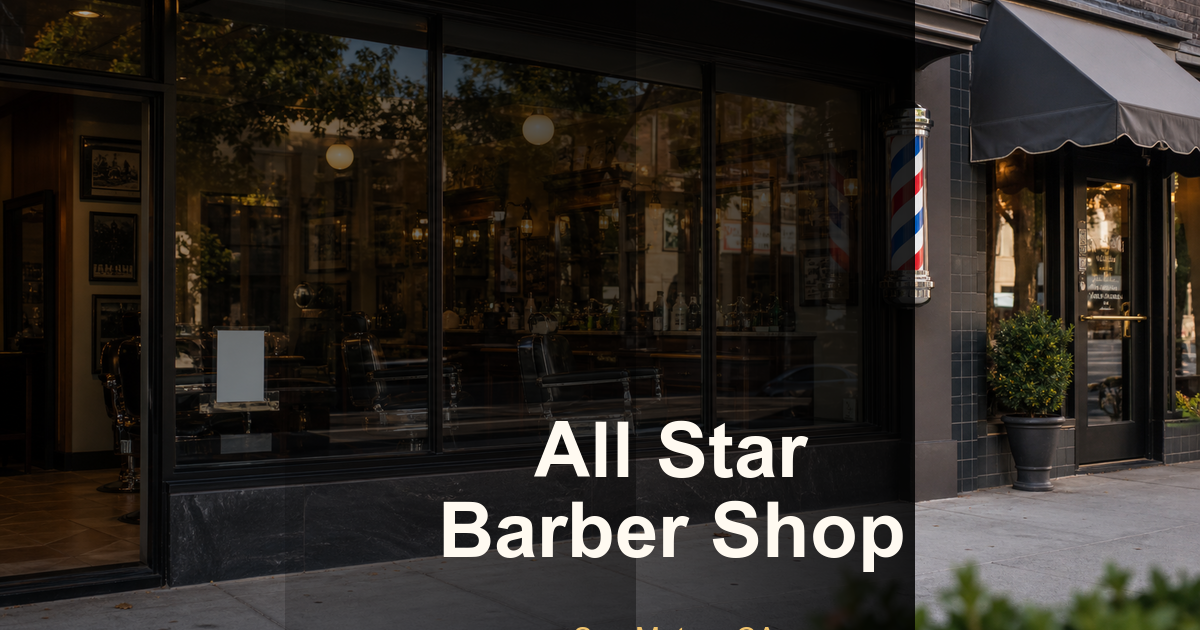
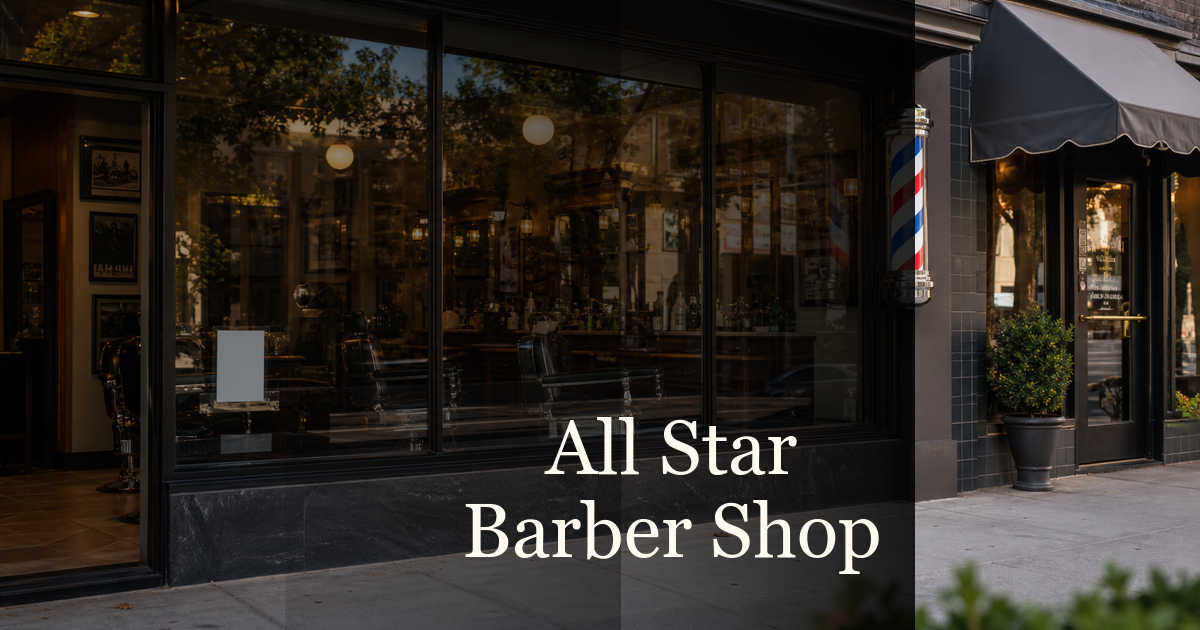
Lighten typography styling

diff --git a/src/styles.css b/src/styles.css
@@ -9,7 +9,7 @@
   --red-dark: #85211e;
   --teal: #176d67;
   --gold: #d29d3f;
-  --shadow: 0 24px 70px rgba(20, 20, 20, 0.18);
+  --shadow: 0 24px 70px rgba(20, 20, 20, 0.16);
   color-scheme: light;
   font-family: Inter, ui-sans-serif, system-ui, -apple-system, BlinkMacSystemFont, "Segoe UI", sans-serif;
 }
@@ -44,6 +44,10 @@ img {
 
 button {
   font: inherit;
+}
+
+strong {
+  font-weight: inherit;
 }
 
 .site-header {
@@ -83,7 +87,7 @@ button {
   display: inline-flex;
   font-family: Georgia, "Times New Roman", serif;
   font-size: 17px;
-  font-weight: 800;
+  font-weight: 400;
   height: 46px;
   justify-content: center;
   width: 46px;
@@ -96,6 +100,7 @@ button {
 
 .brand strong {
   font-size: 16px;
+  font-weight: 400;
 }
 
 .brand small {
@@ -109,7 +114,7 @@ button {
   display: flex;
   gap: 24px;
   font-size: 14px;
-  font-weight: 800;
+  font-weight: 400;
 }
 
 .nav-links a:not(.nav-book) {
@@ -124,6 +129,7 @@ button {
 .nav-book {
   background: var(--ink);
   color: var(--paper);
+  font-family: Georgia, "Times New Roman", serif;
   padding: 12px 18px;
 }
 
@@ -166,7 +172,9 @@ button {
 }
 
 .hero-content {
+  border-left: 1px solid rgba(255, 250, 241, 0.26);
   max-width: 790px;
+  padding-left: clamp(18px, 3vw, 34px);
   position: relative;
   z-index: 1;
 }
@@ -174,8 +182,10 @@ button {
 .eyebrow {
   color: var(--red);
   font-size: 12px;
-  font-weight: 900;
-  letter-spacing: 0.14em;
+  font-family: Georgia, "Times New Roman", serif;
+  font-style: italic;
+  font-weight: 400;
+  letter-spacing: 0;
   margin: 0 0 14px;
   text-transform: uppercase;
 }
@@ -194,23 +204,27 @@ p {
 h1 {
   font-family: Georgia, "Times New Roman", serif;
   font-size: clamp(54px, 9vw, 118px);
-  font-weight: 700;
+  font-weight: 400;
   letter-spacing: 0;
-  line-height: 0.9;
+  line-height: 0.92;
   margin-bottom: 22px;
+  text-wrap: balance;
 }
 
 h2 {
   font-family: Georgia, "Times New Roman", serif;
   font-size: clamp(34px, 4.8vw, 62px);
-  font-weight: 700;
+  font-weight: 400;
   letter-spacing: 0;
   line-height: 1;
   margin-bottom: 18px;
+  text-wrap: balance;
 }
 
 h3 {
+  font-family: Georgia, "Times New Roman", serif;
   font-size: 20px;
+  font-weight: 400;
   line-height: 1.2;
   margin-bottom: 12px;
 }
@@ -238,7 +252,8 @@ p {
   align-items: center;
   border: 1px solid transparent;
   display: inline-flex;
-  font-weight: 900;
+  font-family: Georgia, "Times New Roman", serif;
+  font-weight: 400;
   justify-content: center;
   min-height: 48px;
   padding: 14px 20px;
@@ -280,7 +295,9 @@ p {
 .proof-strip strong {
   color: var(--paper);
   display: block;
-  font-size: 28px;
+  font-family: Georgia, "Times New Roman", serif;
+  font-size: 30px;
+  font-weight: 400;
   line-height: 1;
 }
 
@@ -335,7 +352,7 @@ p {
   background: var(--paper);
   border: 1px solid var(--line);
   border-radius: 8px;
-  box-shadow: 0 12px 40px rgba(20, 20, 20, 0.07);
+  box-shadow: 0 12px 40px rgba(20, 20, 20, 0.055);
   padding: 24px;
 }
 
@@ -350,7 +367,8 @@ p {
   color: var(--red-dark);
   display: inline-flex;
   font-size: 13px;
-  font-weight: 900;
+  font-family: Georgia, "Times New Roman", serif;
+  font-weight: 400;
   height: 42px;
   justify-content: center;
   margin-bottom: 24px;
@@ -360,6 +378,8 @@ p {
 .service-card strong {
   color: var(--teal);
   display: block;
+  font-family: Georgia, "Times New Roman", serif;
+  font-style: italic;
   margin-top: 18px;
 }
 
@@ -402,7 +422,8 @@ p {
   border: 1px solid rgba(255, 250, 241, 0.18);
   border-radius: 8px;
   color: var(--paper);
-  font-weight: 800;
+  font-family: Georgia, "Times New Roman", serif;
+  font-weight: 400;
   padding: 14px;
 }
 
@@ -419,6 +440,8 @@ p {
 
 .review-grid article strong {
   color: var(--red-dark);
+  font-family: Georgia, "Times New Roman", serif;
+  font-style: italic;
 }
 
 .hours-section {
@@ -455,6 +478,8 @@ p {
 
 .hours-list strong {
   color: var(--red-dark);
+  font-family: Georgia, "Times New Roman", serif;
+  font-weight: 400;
 }
 
 .callout {
@@ -510,13 +535,16 @@ p {
 
 .map-panel span {
   color: rgba(255, 250, 241, 0.72);
-  font-weight: 800;
+  font-family: Georgia, "Times New Roman", serif;
+  font-style: italic;
+  font-weight: 400;
   margin-bottom: 8px;
 }
 
 .map-panel strong {
   font-family: Georgia, "Times New Roman", serif;
   font-size: clamp(32px, 4vw, 48px);
+  font-weight: 400;
   line-height: 1;
 }
 